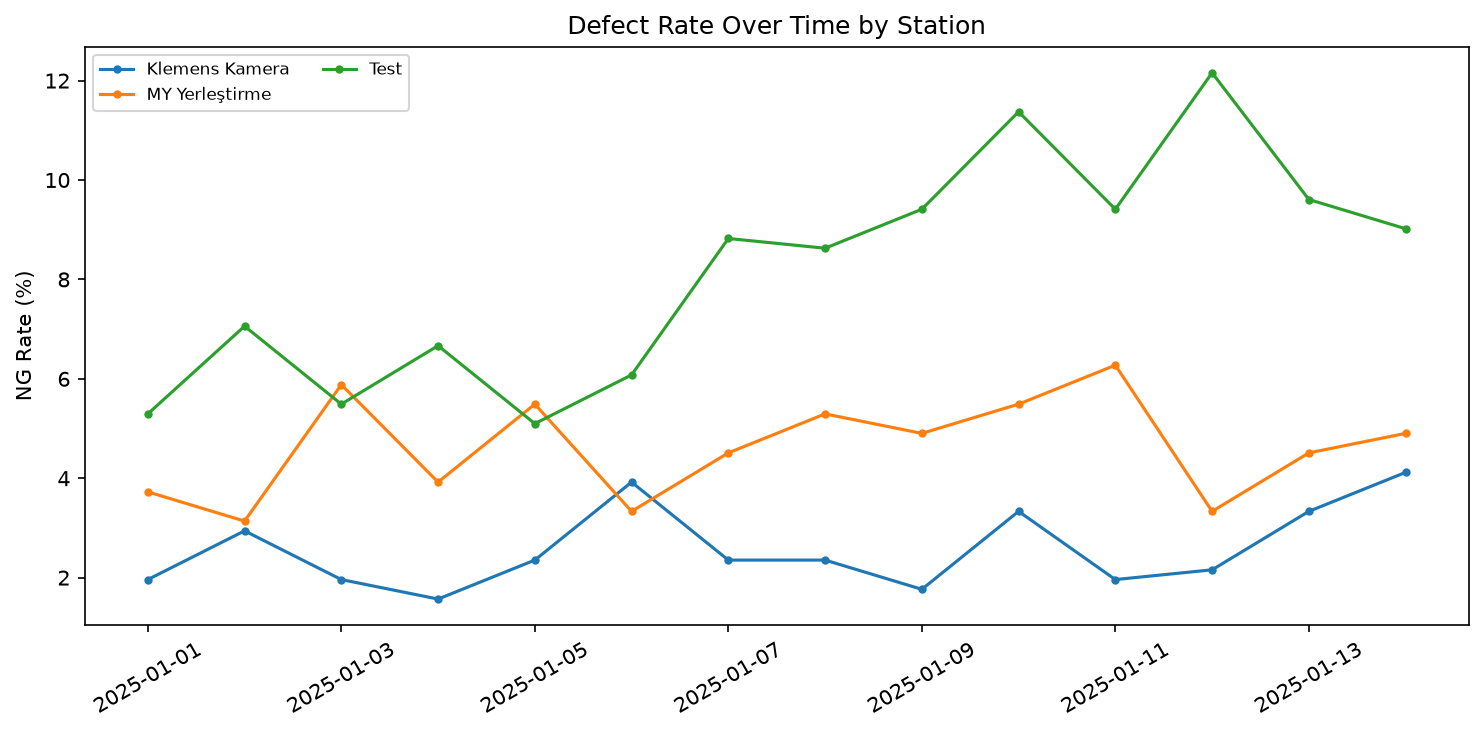
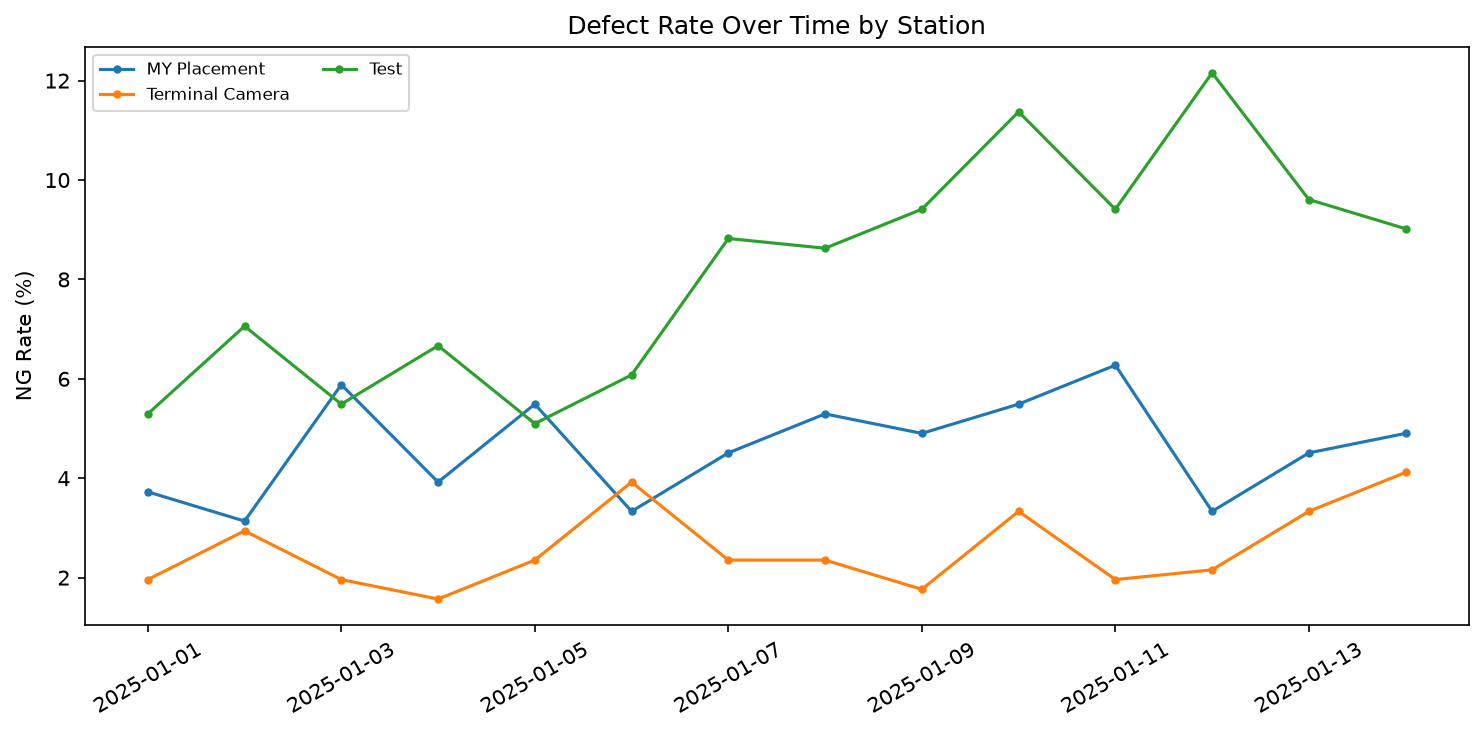
proje metinleri düzeltildi. Hat analizi görseller ingilizce yapıldı

diff --git a/data/projects.js b/data/projects.js
@@ -26,16 +26,50 @@ const PROJECTS = [
       cycleTimeAfterMin: 0.5
     },
     sections: [
-      { type: "text", content: { tr: "Sahada BM veya Stator koduna göre ürün ağacı bilgisine ulaşmak eskiden dağınık Excel/kağıt listeler arasında dakikalar sürüyordu.  Uygulamayı canlı denemek için <a href='assets/projects/bom-app/demo/bom_app_demo_anonimlestirilmis.html' target='_blank' rel='noopener' style='text-decoration:underline;'><strong>buraya tıklayın</strong></a>.", en: "Looking up BOM information by assembly or stator code on the shop floor used to take minutes of flipping through scattered Excel sheets or paper lists.  Try the live app <a href='assets/projects/bom-app/demo/bom_app_demo_anonimlestirilmis.html' target='_blank' rel='noopener' style='text-decoration:underline;'><strong>here</strong></a>." } },
-      { type: "image", src: "assets/projects/bom-app/demo-arama-ekrani.png", caption: { tr: "Anlık BOM arama ve gruplu sonuç kartları", en: "Instant BOM lookup with grouped result cards" } },
-      { type: "text", content: { tr: "Bir adım öteye geçip 'bu stator kodu başka hangi modellerde kullanılıyor' sorusuna da tek dokunuşla cevap verildi.", en: "Taking it a step further, a single tap now answers 'which other models use this stator code'." } },
-      { type: "image", src: "assets/projects/bom-app/demo-stator-ortak-kullanim.png", caption: { tr: "Stator kodu ortak kullanım ters-araması", en: "Reverse lookup for shared stator codes" } },
-      { type: "text", content: { tr: "Aynı uygulamaya, ayrı bir Excel dosyasına bakma ihtiyacını ortadan kaldıran, filtrelenebilir ve düzenlenebilir bir kadro (vardiya) yönetim modülü de eklendi.", en: "The same app also includes a filterable, editable roster module that removes the need to check a separate Excel file." } },
-      { type: "image", src: "assets/projects/bom-app/demo-kadro-ekrani.png", caption: { tr: "Birim/cinsiyet/sözleşme türüne göre filtrelenebilen kadro ekranı", en: "Roster screen, filterable by department, gender, and contract type" } },
-      { type: "text", content: { tr: "Aynı veri yapısını bu kez toplu bakış açısıyla incelemek için Python (pandas) ile offline bir analiz katmanı da eklendi — bu, sitede çalışmaz, yalnızca rapor/görsel üretir.", en: "The same data structure was also analyzed in bulk using an offline Python (pandas) layer — this doesn't run on the site, it only generates reports/visuals." } },
-      { type: "image", src: "assets/projects/bom-app/parca_ortakligi.png", caption: { tr: "En çok paylaşılan parça kodları — stok konsolidasyonu fırsatları", en: "Most-shared component codes — stock consolidation opportunities" } },
-      { type: "image", src: "assets/projects/bom-app/veri_tamligi.png", caption: { tr: "Alan bazlı veri tamlığı raporu", en: "Field-level data completeness report" } },
-      { type: "text", content: { tr: "Sonuç: arama süresi dakikalardan saniyelere indi, ortak parça görünürlüğü stok tartışmalarına somut bir başlangıç noktası sağladı.", en: "Result: lookup time dropped from minutes to seconds, and shared-part visibility gave stock discussions a concrete starting point." } }
+      { type: "text", content: {
+        tr: "Sahada veya toplantılarda BM ya da Stator koduna göre ürün ağacı bilgisine ulaşmak, eskiden dağınık Excel/kağıt listeler ile SAP arasında geçen dakikalar sürüyordu. Bunun üzerine, şablon yapısına uygun ürün ağaçlarının HTML tabanlı bir arayüzden kolayca içe aktarılabildiği bir çözüm geliştirildi.",
+        en: "Looking up BOM information by assembly or stator code, whether on the shop floor or in meetings, used to take minutes spent switching between scattered Excel/paper lists and SAP. To solve this, a solution was built where template-based BOM structures can be easily imported through an HTML interface."
+      } },
+      { type: "text", content: {
+        tr: "Uygulamayı canlı olarak denemek için <a href='assets/projects/bom-app/demo/bom_app_demo_anonimlestirilmis.html' target='_blank' rel='noopener' style='text-decoration:underline;'><strong>buraya tıklayın</strong></a>.",
+        en: "To try the app live, <a href='assets/projects/bom-app/demo/bom_app_demo_anonimlestirilmis.html' target='_blank' rel='noopener' style='text-decoration:underline;'><strong>click here</strong></a>."
+      } },
+      { type: "image", src: "assets/projects/bom-app/demo-arama-ekrani.png", caption: {
+        tr: "BOM arama ve hat bazlı gruplu sonuç kartları",
+        en: "Instant BOM lookup with line-based grouped result cards"
+      } },
+      { type: "text", content: {
+        tr: "Kullanım sırasında alınan geri bildirimlerle bir adım daha ileri gidilerek, 'bu stator kodu başka hangi modellerde kullanılıyor' sorusuna da tek dokunuşla cevap verildi.",
+        en: "Based on feedback gathered during use, the tool was taken a step further to answer, with a single tap, the question of which other models share a given stator code."
+      } },
+      { type: "image", src: "assets/projects/bom-app/demo-stator-ortak-kullanim.png", caption: {
+        tr: "Stator kodu ortak kullanım ters-araması",
+        en: "Reverse lookup for shared stator codes"
+      } },
+      { type: "text", content: {
+        tr: "Aynı uygulamaya, ayrı bir Excel dosyasına bakma ihtiyacını ortadan kaldıran, filtrelenebilir ve düzenlenebilir bir kadro (vardiya) yönetim modülü de eklendi. Bu modül, gerektiğinde personel eğitimlerinin takibiyle birleştirilerek yetenek matrisi gibi uygulamalar için de büyük kolaylık sağlayacaktır.",
+        en: "The same app also includes a filterable, editable roster (shift) management module that removes the need to check a separate Excel file. When needed, this module can be combined with employee training records to support use cases like skills matrices as well."
+      } },
+      { type: "image", src: "assets/projects/bom-app/demo-kadro-ekrani.png", caption: {
+        tr: "Birim/cinsiyet/sözleşme türüne göre filtrelenebilen kadro ekranı",
+        en: "Roster screen, filterable by department, gender, and contract type"
+      } },
+      { type: "text", content: {
+        tr: "Aynı veri yapısını bu kez toplu bir bakış açısıyla incelemek ve elimizdeki verinin doluluk oranını görmek için Python (pandas) ile offline bir analiz katmanı da eklendi. Buradan hareketle stok takibi, model dönüşleri, malzeme planlaması ve benzeri ihtiyaçlar için çalışmalar ilerletilebilir — bu kısma sitede yer verilmemiştir, ancak iletişime geçerek detaylı bilgi alabilirsiniz.",
+        en: "An offline analysis layer built with Python (pandas) was also added to examine the same data structure from a bulk perspective and check how complete our data actually is. This can be extended further for stock tracking, model transitions, material planning, and similar needs — it isn't available on the site, but feel free to reach out for more details."
+      } },
+      { type: "image", src: "assets/projects/bom-app/parca_ortakligi.png", caption: {
+        tr: "En çok paylaşılan stator kodları — stok konsolidasyonu fırsatları",
+        en: "Most-shared stator codes — stock consolidation opportunities"
+      } },
+      { type: "image", src: "assets/projects/bom-app/veri_tamligi.png", caption: {
+        tr: "Alan bazlı veri tamlığı raporu",
+        en: "Field-level data completeness report"
+      } },
+      { type: "text", content: {
+        tr: "Sonuç: arama süresi dakikalardan saniyelere indi, ürün ağacı bilgisine her yerden erişilebilen, daha geniş bir kullanıcı profiline hitap eden bir sisteme geçildi. Kadro tarafında personel bilgisi ve yetkinlikler artık tek bir ekrandan takip edilebiliyor.",
+        en: "Result: lookup time dropped from minutes to seconds, and the team moved to a system reachable from anywhere, serving a much broader set of users. On the roster side, personnel information and competencies can now be tracked from a single screen."
+      } }
     ]
   },
   {
@@ -59,14 +93,14 @@ const PROJECTS = [
     },
     sections: [
       { type: "text", content: {
-        tr: "Alfa Sargı hattındaki 8-10 istasyonun her biri kendi otomasyon sisteminden ayrı bir Excel dökümü üretiyor. Mevcut VBA aracı, klasik OEE formülünü (Kalite × Performans × Kullanılabilirlik) doğru şekilde uygulayarak vardiya bazlı üretim/hurda/duruş takibini otomatikleştiriyor.",
-        en: "Each of the 8-10 stations on the Alfa Winding line produces its own Excel export from its automation system. The existing VBA tool correctly implements the classic OEE formula (Quality × Performance × Availability), automating shift-level production/scrap/downtime tracking." } },
+        tr: "Alfa Sargı hattındaki 8-10 istasyonun her biri kendi otomasyon sisteminden ayrı bir Excel dökümü üretiyor. Mevcut VBA aracı, klasik OEE formülünü (Kalite × Performans × Kullanılabilirlik) uygulayarak vardiya bazlı üretim/hurda/duruş takibini otomatikleştiriyor.",
+        en: "Each of the 8-10 stations on the Alfa Winding line generates its own Excel export from its own automation system. The existing VBA tool automates shift-level production, scrap, and downtime tracking by applying the classic OEE formula (Quality × Performance × Availability)." } },
       { type: "image", src: "assets/projects/hat-analizi/shift_oee_trend.png", caption: {
         tr: "Vardiya bazlı üretim/hedef sapması ve OEE trendi (temsili veri)",
         en: "Shift-level production vs target and OEE trend (representative data)" } },
       { type: "text", content: {
-        tr: "İstasyon dosyalarının hepsinde ortak bir alan olduğu fark edildi: her ünitenin taşıdığı benzersiz seri numarası. Bu, dosyaların aslında ilişkisel bir veri seti olduğu ama hiç bu şekilde kullanılmadığı anlamına geliyordu. Bunun üzerine, istasyonları seri numarasından birleştiren bağımsız bir Python analiz katmanı (39 birim testle doğrulanmış) geliştirildi.",
-        en: "All station files were found to share a common field: each unit's unique serial number. This meant the files formed a relational dataset that had never been used as one. A standalone Python analytics layer (verified with 39 unit tests) was built to join stations on that serial number." } },
+        tr: "İstasyon dosyalarının hepsinde ortak bir alan olan ve her ürünün taşıdığı benzersiz seri numarası, bu dosyaların aslında ilişkisel bir veri seti olduğunu, ancak Excel/VBA kısıtları nedeniyle bu ilişkinin yeterince derinlemesine incelenemediğini gösteriyordu. Bunun üzerine, istasyonları seri numarasından birleştiren bağımsız bir Python analiz katmanı (39 birim testle doğrulanmış) geliştirildi.",
+        en: "The unique serial number carried by every product — a field common to all station files — revealed that these files actually formed a relational dataset, one that Excel/VBA's constraints had kept from being explored in enough depth. A standalone Python analytics layer (verified with 39 unit tests) was built to join the stations on that serial number." } },
       { type: "image", src: "assets/projects/hat-analizi/fpy_by_station.png", caption: {
         tr: "İstasyon bazlı ilk-geçiş verimi (FPY) — temsili veri",
         en: "First-pass yield (FPY) by station — representative data" } },
@@ -77,8 +111,8 @@ const PROJECTS = [
         tr: "Tek bir ürünün hat boyunca istasyon istasyon izlenmesi (temsili veri)",
         en: "Station-by-station trace of a single product across the line (representative data)" } },
       { type: "text", content: {
-        tr: "Bu istasyon-bazlı görünürlük, tarih aralığına göre hata oranı trendini de mümkün kıldı — belirli bir istasyonun zaman içinde kötüleşip kötüleşmediği artık tek bakışta görülebiliyor.",
-        en: "This station-level visibility also enabled a defect rate trend over any date range — whether a specific station is degrading over time is now visible at a glance." } },
+        tr: "Bu istasyon-bazlı görünürlük, tarih aralığına göre hata oranı trendini de mümkün kıldı — belirli bir istasyonun zaman içinde kötüleşip kötüleşmediği artık tek bakışta görülebiliyor. Hatta vardiyalar arası kıyaslama da elimizdeki veriyle kolaylıkla yapılabiliyor.",
+        en: "This station-level visibility also made it possible to track the defect-rate trend over any date range — whether a given station is degrading over time is now visible at a glance. Shift-to-shift comparisons, too, can now be made easily from the same data." } },
       { type: "image", src: "assets/projects/hat-analizi/defect_rate_trend.png", caption: {
         tr: "Seçilen tarih aralığında istasyon bazlı hata oranı trendi (temsili veri)",
         en: "Station-level defect rate trend over a selected date range (representative data)" } }

diff --git a/project-detail.js b/project-detail.js
@@ -31,7 +31,7 @@
       });
     }
     if (!blocks.length) {
-      blocks.push(`<div class="detail-media">${t.detail_soon}</div>`);
+      return "";
     }
     return blocks.join("");
   }
@@ -77,7 +77,7 @@
 
     const githubBtn = project.github && project.github !== "#"
       ? `<a href="${project.github}" class="btn" target="_blank" rel="noopener">${t.detail_github}</a>`
-      : `<span class="btn ghost" style="opacity:0.5; cursor:default;">${t.detail_soon}</span>`;
+      : "";
 
     const videoBtn = project.video
       ? `<a href="${project.video}" class="btn ghost" target="_blank" rel="noopener">${t.detail_video}</a>`
@@ -85,6 +85,9 @@
 
     const mediaBlock = buildMediaBlock(project, t);
     const bodyHtml = buildBody(project);
+    const ctasHtml = (githubBtn || videoBtn)
+      ? `<div class="detail-ctas">${githubBtn}${videoBtn}</div>`
+      : "";
 
     detailContent.innerHTML = `
       <div class="detail-tag">${project.tag[currentLang]}</div>
@@ -96,10 +99,7 @@
 
       ${mediaBlock}
 
-      <div class="detail-ctas">
-        ${githubBtn}
-        ${videoBtn}
-      </div>
+      ${ctasHtml}
     `;
 
     const related = relatedFor(project);
